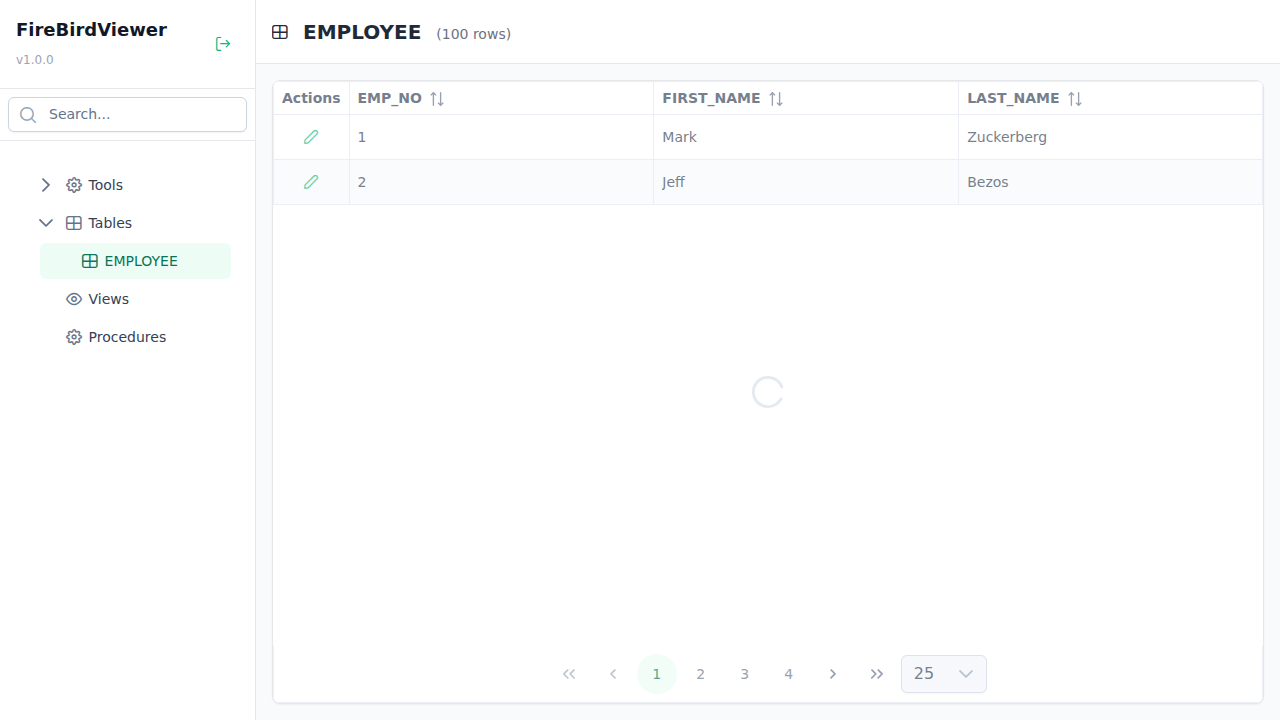
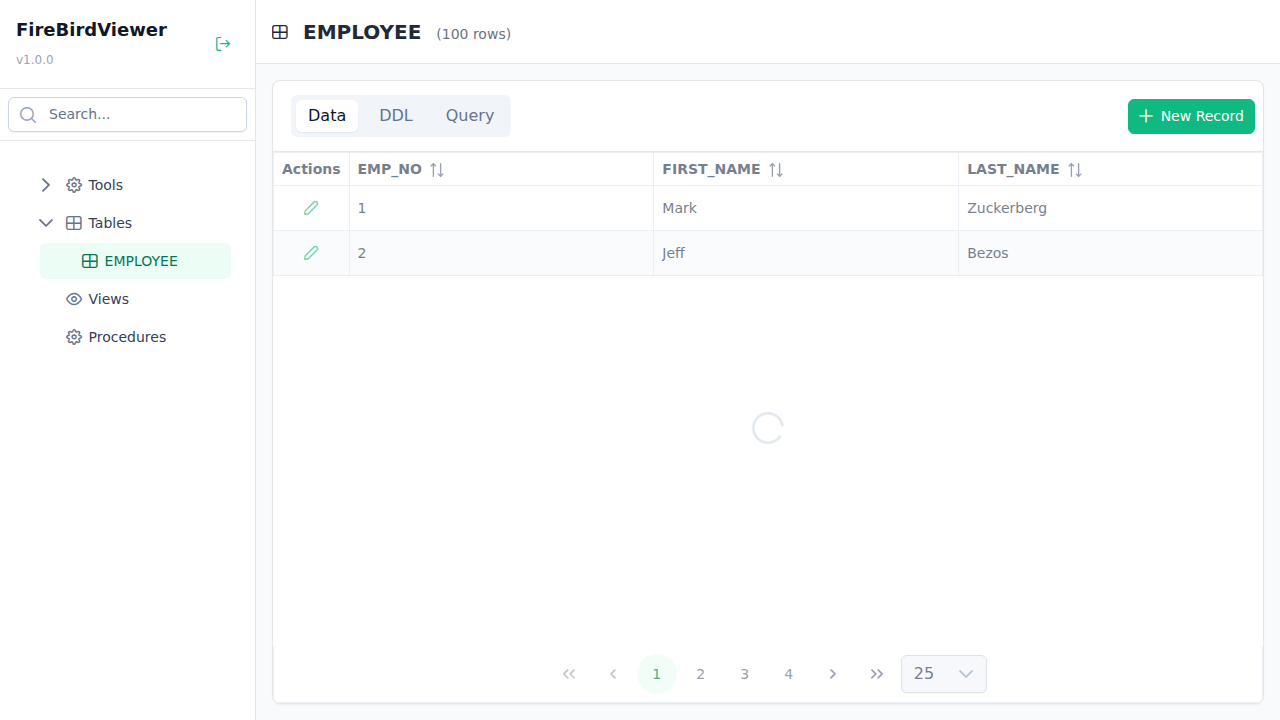
Fix: correct pagination and sorting by removing virtual scrolling logic (resolved conflict)
Refactors Dashboard.vue to use standard lazy loading with a current-page data array instead of a sparse array matching total records. This resolves reactivity issues where the table would not visually update after sorting. Also ensures sorting resets pagination to the first page. Resolved merge conflict by re-applying changes on top of main which added table tabs.

diff --git a/frontend/src/views/Dashboard.vue b/frontend/src/views/Dashboard.vue
@@ -118,61 +118,87 @@
                     </div>
                 </div>
 
-                <!-- DataTable Container (Tables & Views) -->
-                <div v-else class="flex-1 overflow-hidden rounded-lg border border-gray-200 dark:border-gray-700 bg-white dark:bg-gray-800 shadow-sm">
-                    <DataTable
-                        :key="selectedItemName"
-                        :value="tableData"
-                        scrollable
-                        scrollHeight="flex"
-                        class="p-datatable-sm text-sm"
-                        stripedRows
-                        showGridlines
-                        lazy
-                        paginator
-                        :rows="rows"
-                        :rowsPerPageOptions="[25, 50, 100]"
-                        :first="first"
-                        :totalRecords="totalRecords"
-                        :loading="loadingData"
-                        @page="onPage"
-                        @sort="onSort"
-                        removableSort
-                    >
-                        <!-- Actions Column (Only for Tables) -->
-                        <Column v-if="activeSection === 'tables'" header="Actions" style="width: 50px; text-align: center">
-                           <template #body="{ data }">
-                               <Button
-                                  v-if="data"
-                                  icon="pi pi-pencil"
-                                  text
-                                  rounded
-                                  size="small"
-                                  @click="openEditDialog(data)"
-                                  class="text-gray-400 hover:text-primary-600"
-                               />
-                           </template>
-                        </Column>
+                <!-- Table View Container -->
+                <div v-else class="flex-1 flex flex-col h-full overflow-hidden bg-white dark:bg-gray-800 rounded-lg border border-gray-200 dark:border-gray-700 shadow-sm">
+                    <!-- Toolbar for Tables -->
+                    <div v-if="activeSection === 'tables'" class="flex items-center justify-between p-2 border-b border-gray-200 dark:border-gray-700">
+                        <SelectButton v-model="activeTableTab" :options="tableTabs" class="p-button-sm" />
+                        <Button
+                            v-if="activeTableTab === 'Data'"
+                            label="New Record"
+                            icon="pi pi-plus"
+                            size="small"
+                            severity="primary"
+                            @click="openCreateDialog"
+                        />
+                    </div>
 
-                        <Column
-                            v-for="col in displayColumns"
-                            :key="col.name"
-                            :field="col.name"
-                            :header="col.name"
-                            style="min-width: 150px"
-                            :sortable="col.type !== 'BLOB'"
+                    <!-- Table: Data Tab (and Views) -->
+                    <div v-if="(activeSection === 'tables' && activeTableTab === 'Data') || activeSection === 'views'" class="flex-1 overflow-hidden">
+                        <DataTable
+                            :key="selectedItemName"
+                            :value="tableData"
+                            scrollable
+                            scrollHeight="flex"
+                            class="p-datatable-sm text-sm"
+                            stripedRows
+                            showGridlines
+                            lazy
+                            paginator
+                            :rows="rows"
+                            :rowsPerPageOptions="[25, 50, 100]"
+                            :first="first"
+                            :totalRecords="totalRecords"
+                            :loading="loadingData"
+                            @page="onPage"
+                            @sort="onSort"
+                            removableSort
                         >
+                            <!-- Actions Column (Only for Tables) -->
+                            <Column v-if="activeSection === 'tables'" header="Actions" style="width: 50px; text-align: center">
                             <template #body="{ data }">
-                                <span v-if="data" class="truncate block" :title="data[col.name]">{{ data[col.name] }}</span>
-                                <span v-else class="flex items-center gap-2">
-                                    <i class="pi pi-spin pi-spinner text-xs text-gray-300"></i>
-                                </span>
+                                <Button
+                                    v-if="data"
+                                    icon="pi pi-pencil"
+                                    text
+                                    rounded
+                                    size="small"
+                                    @click="openEditDialog(data)"
+                                    class="text-gray-400 hover:text-primary-600"
+                                />
                             </template>
-                        </Column>
-                        <template #empty>
-                            <div class="p-4 text-center text-gray-500">No records found.</div>
-                        </template>
-                    </DataTable>
+                            </Column>
+
+                            <Column
+                                v-for="col in displayColumns"
+                                :key="col.name"
+                                :field="col.name"
+                                :header="col.name"
+                                style="min-width: 150px"
+                                :sortable="col.type !== 'BLOB'"
+                            >
+                                <template #body="{ data }">
+                                    <span v-if="data" class="truncate block" :title="data[col.name]">{{ data[col.name] }}</span>
+                                    <span v-else class="flex items-center gap-2">
+                                        <i class="pi pi-spin pi-spinner text-xs text-gray-300"></i>
+                                    </span>
+                                </template>
+                            </Column>
+                            <template #empty>
+                                <div class="p-4 text-center text-gray-500">No records found.</div>
+                            </template>
+                        </DataTable>
+                    </div>
+
+                    <!-- Table: DDL Tab -->
+                    <div v-else-if="activeSection === 'tables' && activeTableTab === 'DDL'" class="flex-1 flex flex-col overflow-hidden">
+                        <pre class="flex-1 overflow-auto p-4 bg-gray-50 dark:bg-gray-900 font-mono text-sm text-gray-800 dark:text-gray-200 whitespace-pre-wrap">{{ tableDDL }}</pre>
+                    </div>
+
+                    <!-- Table: Query Tab -->
+                    <div v-else-if="activeSection === 'tables' && activeTableTab === 'Query'" class="flex-1 flex flex-col overflow-hidden">
+                         <SqlEditor :api="api" :initialCode="tableQuery" />
+                    </div>
                 </div>
             </div>
 
@@ -189,7 +215,9 @@
       v-model:visible="editDialogVisible"
       :rowData="editingRow"
       :columns="columns"
+      :mode="editMode"
       @save="saveRow"
+      @delete="deleteRow"
     />
 
     <!-- Execute Procedure Dialog -->
@@ -217,6 +245,7 @@ import Tree from 'primevue/tree'
 import IconField from 'primevue/iconfield'
 import InputIcon from 'primevue/inputicon'
 import InputText from 'primevue/inputtext'
+import SelectButton from 'primevue/selectbutton'
 import { useToast } from 'primevue/usetoast'
 import EditRowDialog from '../components/EditRowDialog.vue'
 import ExecuteProcedureDialog from '../components/ExecuteProcedureDialog.vue'
@@ -241,6 +270,12 @@ const selectedItemName = ref(null) // Table name, View name, Proc name, or Tool 
 const procedureSource = ref('')
 const procViewMode = ref('source') // 'source' or 'results'
 
+// Table Tabs
+const activeTableTab = ref('Data')
+const tableTabs = ref(['Data', 'DDL', 'Query'])
+const tableDDL = ref('')
+const tableQuery = ref('')
+
 // Data State
 const data = ref([])
 const tableData = ref([])
@@ -257,6 +292,7 @@ const sortOrder = ref(null) // 1 for asc, -1 for desc
 // Edit Dialog
 const editDialogVisible = ref(false)
 const editingRow = ref(null)
+const editMode = ref('edit') // 'edit' or 'create'
 
 // Execute Dialog
 const executeDialogVisible = ref(false)
@@ -445,6 +481,11 @@ const onNodeSelect = (node) => {
         activeSection.value = sectionMap[type]
         selectedItemName.value = name
 
+        // Defaults for table tabs
+        activeTableTab.value = 'Data'
+        tableDDL.value = ''
+        tableQuery.value = ''
+
         loadItemData(name)
     }
 }
@@ -485,6 +526,21 @@ const loadItemData = async (itemName) => {
         loadingData.value = false
     }
 }
+
+watch(activeTableTab, async (newVal) => {
+    if (activeSection.value === 'tables' && newVal === 'DDL' && !tableDDL.value) {
+        // Fetch DDL
+        try {
+            const res = await api.get(`/api/table/${selectedItemName.value}/ddl`)
+            tableDDL.value = res.data.ddl || 'No DDL available.'
+        } catch (err) {
+            console.error(err)
+            tableDDL.value = 'Failed to fetch DDL.'
+        }
+    } else if (activeSection.value === 'tables' && newVal === 'Query') {
+        tableQuery.value = `SELECT * FROM "${selectedItemName.value}"`
+    }
+})
 
 const onPage = (event) => {
     first.value = event.first
@@ -537,28 +593,65 @@ const loadTableData = async (offset, limit) => {
 
 const openEditDialog = (row) => {
     editingRow.value = row
+    editMode.value = 'edit'
+    editDialogVisible.value = true
+}
+
+const openCreateDialog = () => {
+    editingRow.value = {}
+    editMode.value = 'create'
     editDialogVisible.value = true
 }
 
 const saveRow = async (changes) => {
     try {
-        const dbKey = editingRow.value.DB_KEY || editingRow.value['RDB$DB_KEY']
+        if (editMode.value === 'create') {
+             await api.post(`/api/table/${selectedItemName.value}/data`, changes)
+             toast.add({ severity: 'success', summary: 'Success', detail: 'Record created', life: 3000 });
+             editDialogVisible.value = false
+             // Refresh data
+             loadItemData(selectedItemName.value)
+        } else {
+            const dbKey = editingRow.value.DB_KEY || editingRow.value['RDB$DB_KEY']
+            if (!dbKey) {
+                toast.add({ severity: 'error', summary: 'Error', detail: 'Missing DB_KEY for update', life: 3000 });
+                return
+            }
+
+            await api.put(`/api/table/${selectedItemName.value}/data`, {
+                db_key: dbKey,
+                data: changes
+            })
+
+            toast.add({ severity: 'success', summary: 'Success', detail: 'Record updated', life: 3000 });
+            editDialogVisible.value = false
+            Object.assign(editingRow.value, changes)
+        }
+    } catch (err) {
+        console.error(err)
+        toast.add({ severity: 'error', summary: 'Error', detail: err.response?.data?.error || 'Operation failed', life: 3000 });
+    }
+}
+
+const deleteRow = async (row) => {
+    try {
+        const dbKey = row.DB_KEY || row['RDB$DB_KEY']
         if (!dbKey) {
-            toast.add({ severity: 'error', summary: 'Error', detail: 'Missing DB_KEY for update', life: 3000 });
+            toast.add({ severity: 'error', summary: 'Error', detail: 'Missing DB_KEY for deletion', life: 3000 });
             return
         }
 
-        await api.put(`/api/table/${selectedItemName.value}/data`, {
-            db_key: dbKey,
-            data: changes
+        await api.delete(`/api/table/${selectedItemName.value}/data`, {
+            params: { db_key: dbKey }
         })
 
-        toast.add({ severity: 'success', summary: 'Success', detail: 'Record updated', life: 3000 });
+        toast.add({ severity: 'success', summary: 'Success', detail: 'Record deleted', life: 3000 });
         editDialogVisible.value = false
-        Object.assign(editingRow.value, changes)
+        // Refresh data
+        loadItemData(selectedItemName.value)
     } catch (err) {
-        console.error(err)
-        toast.add({ severity: 'error', summary: 'Error', detail: err.response?.data?.error || 'Update failed', life: 3000 });
+         console.error(err)
+         toast.add({ severity: 'error', summary: 'Error', detail: err.response?.data?.error || 'Deletion failed', life: 3000 });
     }
 }
 
